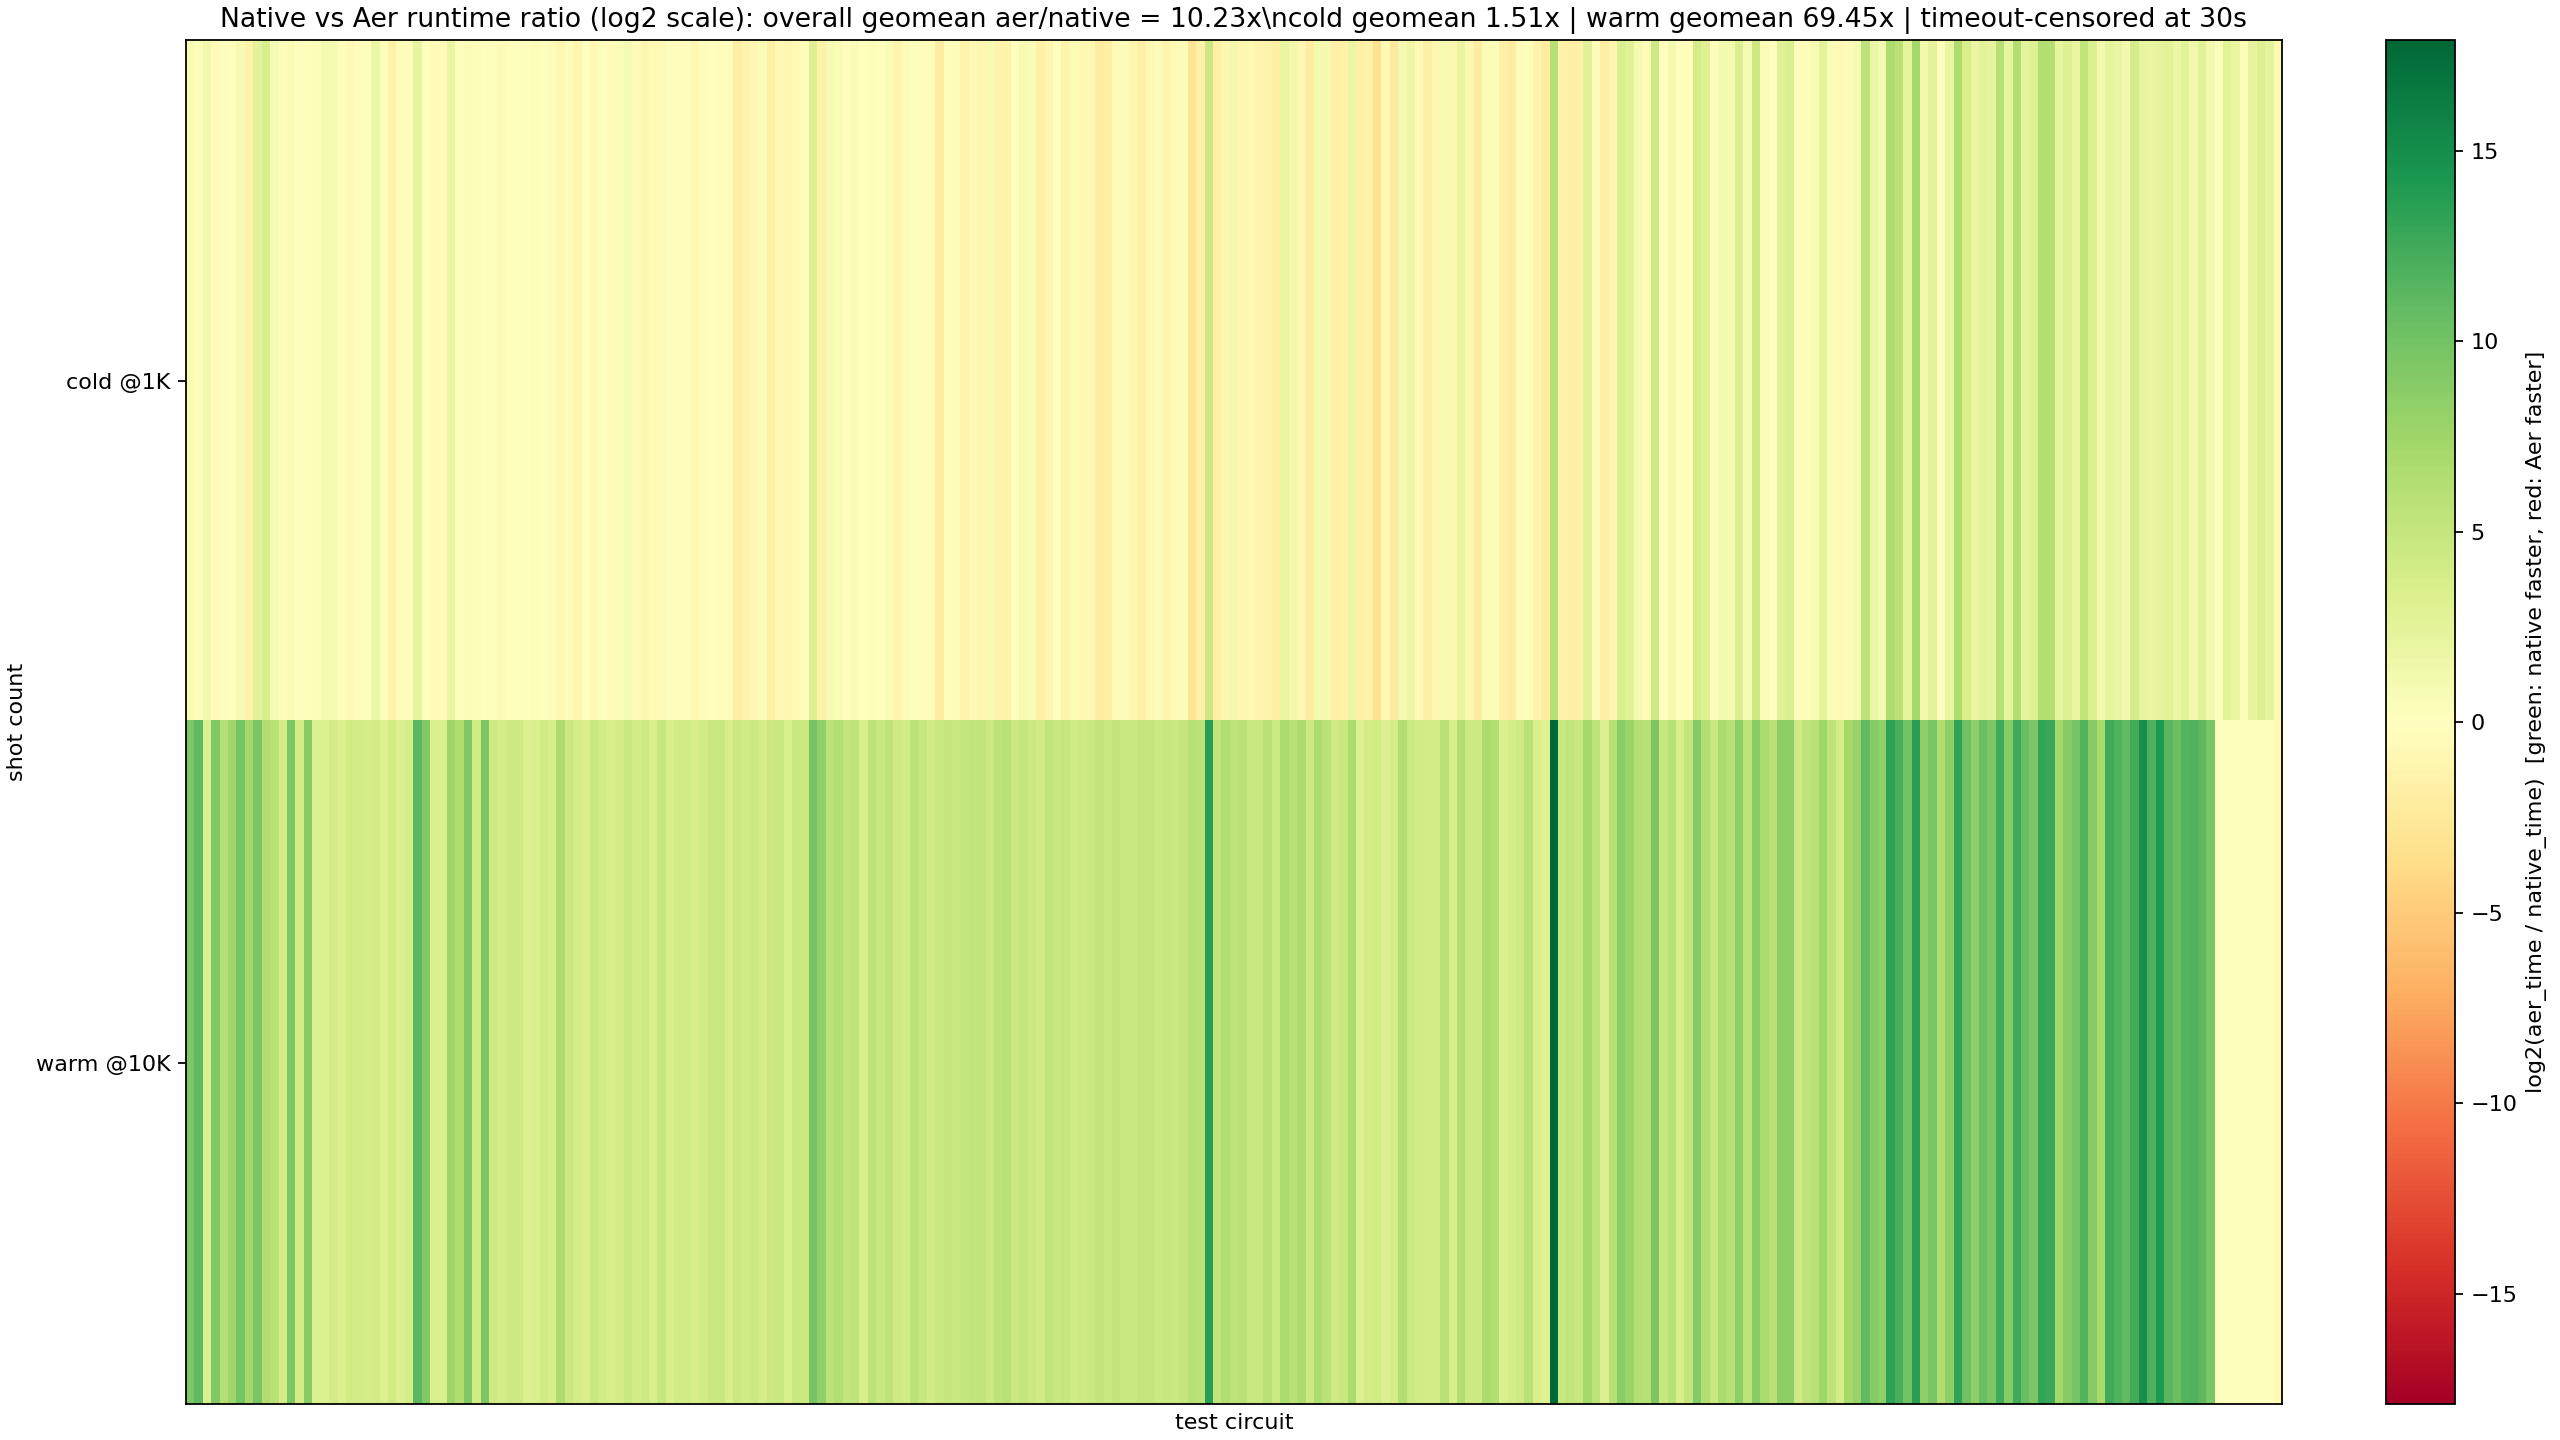
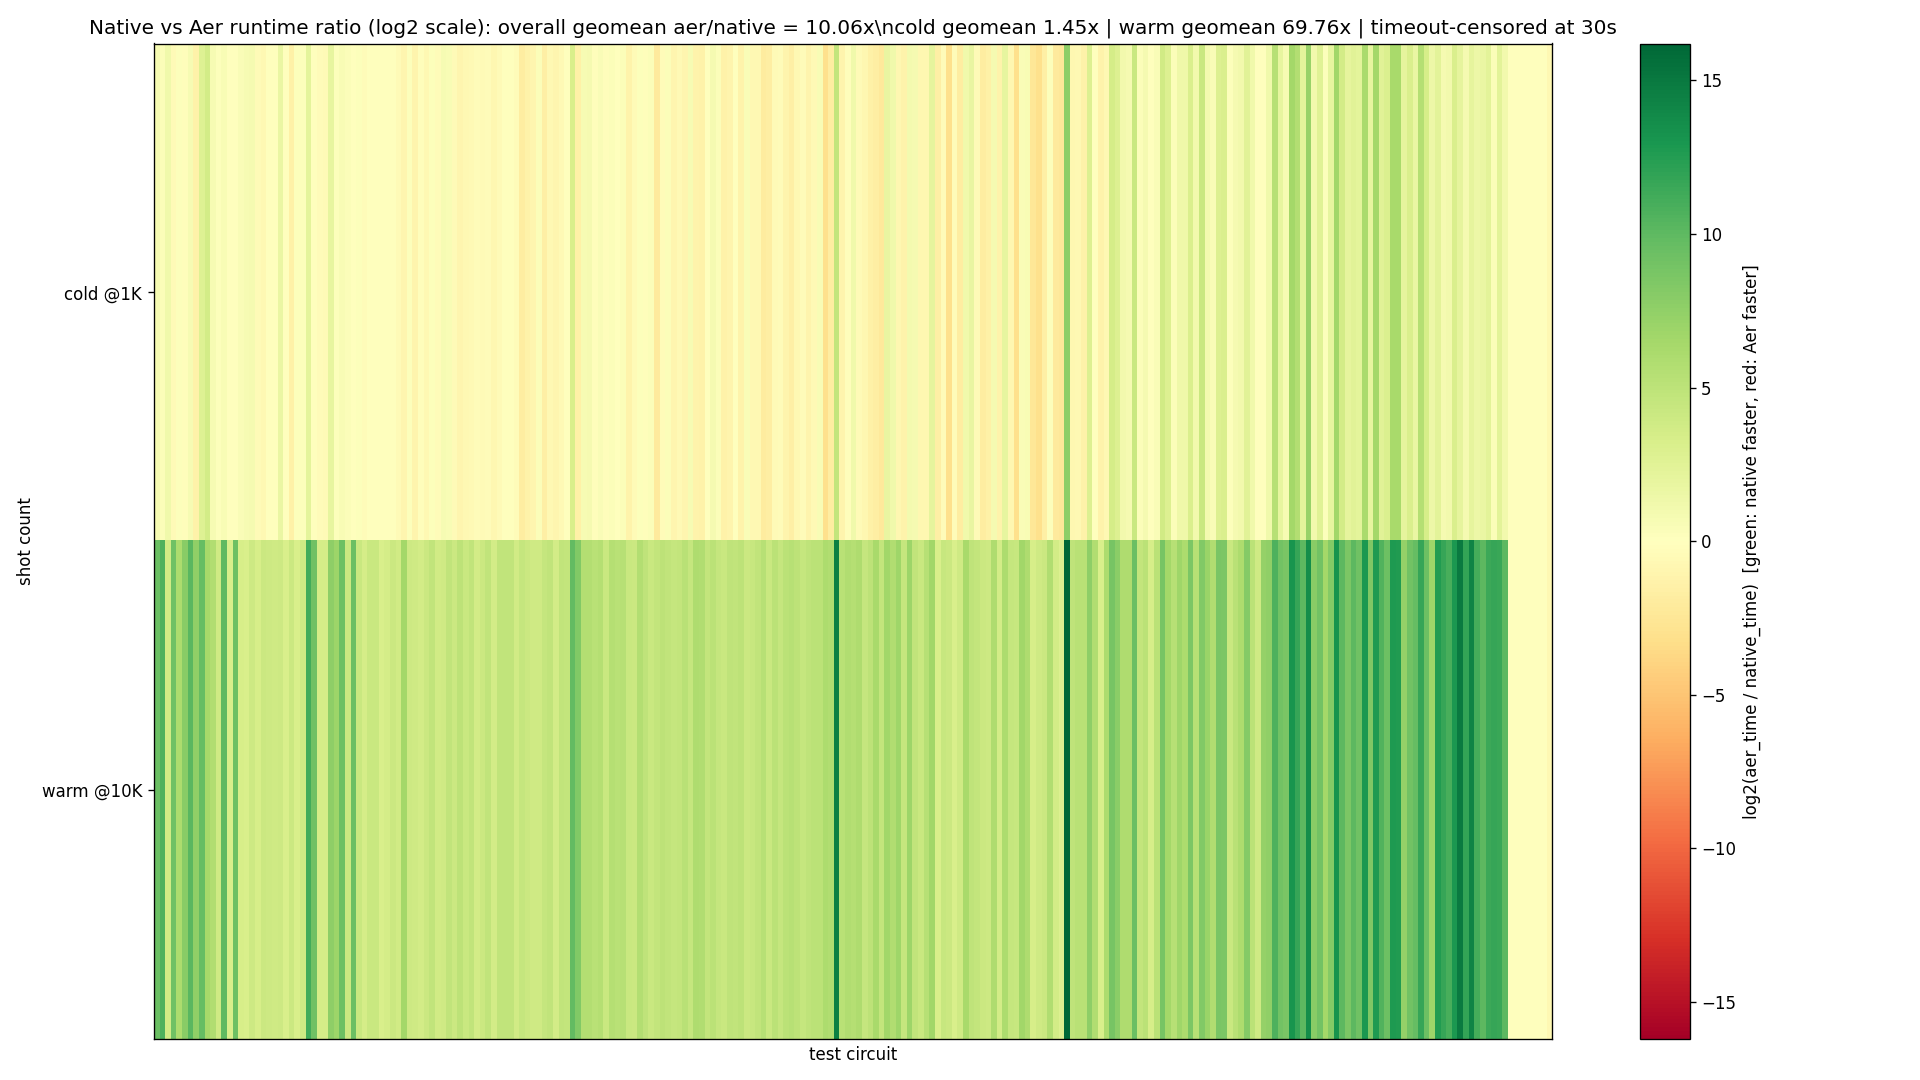
Record 7f96804 checkpoint and refresh native-vs-aer heatmap

diff --git a/docs/experiment-log.md b/docs/experiment-log.md
@@ -65,3 +65,4 @@ Metric column: core-6 @1000 total for idx 0-24; full-suite @1000 total (complete
 | 46 | `2ff3c50` | Added compile-time local diagonal-run fusion for large circuits (`n_qubits >= 12`): within contiguous 1q/2q diagonal runs, fuse by target tuple when gate count is reduced. This collapses deep RZ/CZ-heavy blocks without 2^n diagonal materialization, pairing well with case-cold execution and hard timeouts. Biggest wins were diagonal-heavy large cases (`iqp_forward_28` ~29.8s→~3.6s cold, `qpe_large_28` now completing around ~22.7s cold in-suite). Coverage stayed flat (`235/249`) with no correctness FAILs. Censored native-vs-Aer geomean improved (`8.42x→8.59x`; cold `1.28x→1.28x`, warm `55.61x→57.68x`). | 103.93s / 0.22s (235 cases) | Worked (1.27x cold, 1.03x warm) |
 | 47 | `9c51a57` | Added compile-time local monomial-stream fusion (1q/2q diagonal/permutation runs) plus a one-shot MPS kernel (`monomial_stream`) that applies an entire run in one launch by composing source-index mapping and phase per amplitude. This eliminated many repeated full-state passes in the 28q tail (`qpe_large_28` `22.74s→7.38s`, `ising_ordered_28` `18.64s→7.50s`, `w_state_large_28` `7.86s→2.29s` cold) and converted three prior aborts into completes (`clifford_t_28`, `ising_trotter_28`, `vqe_ansatz_28`). Full-suite completion increased (`235→238`), no correctness FAILs among completed cases. Censored native-vs-Aer geomean improved (`8.59x→9.07x`; cold `1.28x→1.35x`, warm `57.68x→61.07x`); aggregate totals rose because those newly completed 28q cases now contribute measured runtime. | 118.10s / 0.26s (238 cases) | Worked (coverage +3, geomean +5.6%; common-set cold 1.61x) |
 | 48 | `7386772` | Added exact compile-time fusion of contiguous local 1q/2q regions bounded to one qubit pair into a single 4x4 gate (no approximation, pure statevector algebra). This collapses decomposed dense SU(4)-style blocks before execution and sharply cuts dense-kernel dispatch count in large static circuits. It unlocked three previously timed-out dense 28q cases (`quantum_volume_28` `timeout→11.07s`, `su4_chain_28` `timeout→5.77s`, `supremacy_28` `timeout→25.07s` cold) while preserving correctness. Completion increased (`238→241`), with the remaining aborts now only the 30q MPSGraph `INT_MAX` runtime-error group. Censored native-vs-Aer geomean crossed 10x overall (`9.07x→10.23x`; cold `1.35x→1.51x`, warm `61.07x→69.45x`). | 121.19s / 0.28s (241 cases) | Worked (coverage +3, geomean +12.8%; common-set cold 1.49x) |
+| 49 | `7f96804` | Removed MPS size gates for the kernelized paths so dense-kernel dispatch and local monomial-stream fusion are allowed across qubit sizes (no `n_qubits >= 24/20` thresholds). This made the execution policy uniform, but did not address the 30q `complex64` allocation ceiling and left coverage unchanged (`241/249`). On the full suite it was effectively neutral-to-slightly regressive versus idx 48: censored geomean moved `10.23x→10.06x` overall (`cold 1.51x→1.45x`, `warm 69.45x→69.76x`), with several 16q static regressions offsetting small wins elsewhere. | 121.05s / 0.28s (241 cases) | Mixed (policy simplification, no broad speedup) |

diff --git a/docs/progress-data.md b/docs/progress-data.md
@@ -44,6 +44,7 @@ Benchmark schedule: cold @1K (cache cleared) + warm @10K per circuit. Two calls 
 | 18 | `2026-02-12T225438.jsonl` | `2ff3c50` | `2ff3c50\n02-12T2254` | 103.9344 | 0.2229 | 235 |
 | 19 | `2026-02-12T233251.jsonl` | `9c51a57` | `9c51a57\n02-12T2332` | 118.1037 | 0.2567 | 238 |
 | 20 | `2026-02-13T000433.jsonl` | `7386772` | `7386772\n02-13T0004` | 121.1872 | 0.2839 | 241 |
+| 21 | `2026-02-13T004427.jsonl` | `7f96804` | `7f96804\n02-13T0044` | 121.0527 | 0.2843 | 241 |
 
 ## SOTA Reference — Qiskit Aer (Full Suite)
 
